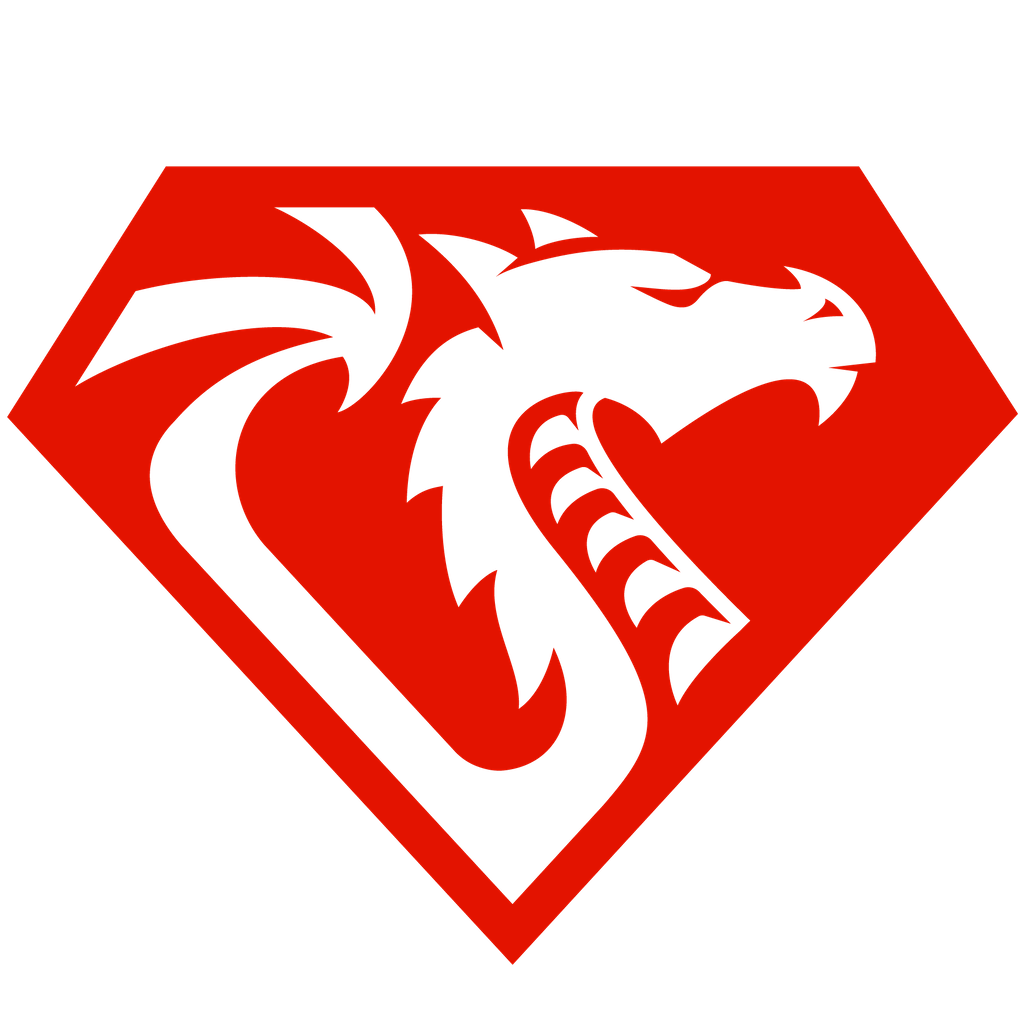
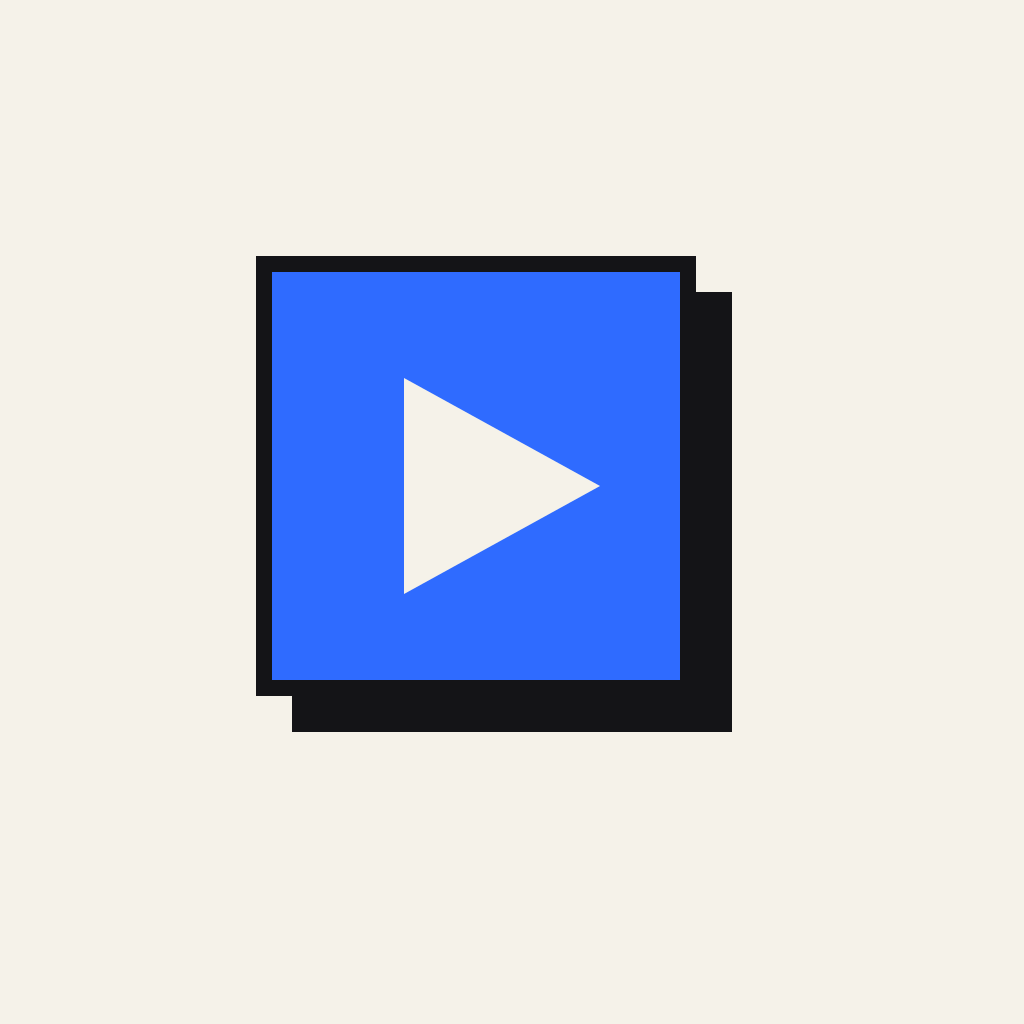
Re-skin the game loading splash to match the in-game poster (#63)
* Re-skin DragonRuby loader splash to match the in-game poster

Replace the red DragonRuby dragon icon with the poster's blue play-button
mark, and re-brand the loader splash chrome (paper bg, site fonts, poster
copy) via overrides in show.html.erb so the boot reads as one video player.

* Move splash re-skin styles into a stylesheet

Extract the inline <style> from frame.html.erb into app/assets/stylesheets/
game_splash.css, linked from the game_frame layout. Bare url() font filenames
let Propshaft digest them (no ERB asset_path needed); frame.html.erb keeps only
the small script that rewrites the loader's two text lines.

* Move splash text rewrite into a Stimulus controller

Replace the inline <script> in frame.html.erb with a game-splash Stimulus
controller (anchored on the iframe body) that rewrites the loader's two splash
text lines once div#clicktoplaydiv appears. Boot a minimal Stimulus app via a
page-scoped importmap (absolute digested asset URLs, so the <base href> leaves
them alone), mirroring how the parent page registers its controllers.

---------

diff --git a/app/assets/stylesheets/game_splash.css b/app/assets/stylesheets/game_splash.css
@@ -1,0 +1,41 @@
+/* Re-skin the DragonRuby HTML5 loader splash to match the in-game poster.
+ *
+ * The vendored loader (regenerated each build) injects div#clicktoplaydiv with the
+ * metadata/icon.png logo + two <p> (title, "Click or tap…"), all inline-styled. We
+ * can't durably edit that JS, so we override its inline styles here (!important beats
+ * inline) and rewrite the two text lines in frame.html.erb once they appear.
+ *
+ * Loaded only inside the game <iframe> (layouts/game_frame.html.erb), which omits the
+ * site CSS — so re-declare the two faces here. Bare url() filenames so Propshaft
+ * digests them (the fonts share the asset-load-path root). Colors mirror constants.rb
+ * (PAPER #F5F2E9 / INK #141417 / MUTED #5B5750; Archivo Black + Space Mono). */
+
+@font-face {
+  font-family: "Archivo Black";
+  font-style: normal;
+  font-weight: 400;
+  font-display: swap;
+  src: url("archivo-black-400.woff2") format("woff2");
+}
+@font-face {
+  font-family: "Space Mono";
+  font-style: normal;
+  font-weight: 400;
+  font-display: swap;
+  src: url("space-mono-400.woff2") format("woff2");
+}
+
+#clicktoplaydiv { background-color: #F5F2E9 !important; border: 3px solid #141417 !important; }
+#clicktoplaydiv p { background-color: transparent !important; }
+#clicktoplaydiv p:nth-of-type(1) {
+  font-family: "Archivo Black", system-ui, sans-serif !important;
+  text-transform: uppercase;
+  letter-spacing: -0.01em;
+  color: #141417 !important;
+  font-size: 28px !important;
+}
+#clicktoplaydiv p:nth-of-type(2) {
+  font-family: "Space Mono", ui-monospace, monospace !important;
+  color: #5B5750 !important;
+  font-size: 18px !important;
+}

diff --git a/app/javascript/controllers/game_splash_controller.js b/app/javascript/controllers/game_splash_controller.js
@@ -1,0 +1,30 @@
+import { Controller } from "@hotwired/stimulus"
+
+// The DragonRuby HTML5 loader injects its splash (div#clicktoplaydiv: a logo + a
+// title <p> + a "Click or tap…" <p>) into the document body once assets finish
+// downloading. We can't edit that vendored JS, so once the splash appears we rewrite
+// its two text lines to the in-game poster's copy (its look is handled by
+// game_splash.css). Attached to the iframe body; it watches for the splash node,
+// which the loader adds asynchronously after this controller has connected.
+export default class extends Controller {
+  connect() {
+    const existing = document.getElementById("clicktoplaydiv")
+    if (existing) { this.rebrand(existing); return }
+
+    this.observer = new MutationObserver((_records, observer) => {
+      const div = document.getElementById("clicktoplaydiv")
+      if (div) { this.rebrand(div); observer.disconnect() }
+    })
+    this.observer.observe(document.body, { childList: true })
+  }
+
+  disconnect() {
+    this.observer?.disconnect()
+  }
+
+  rebrand(div) {
+    const ps = div.querySelectorAll("p")
+    if (ps[0]) ps[0].textContent = "Authentication 101"
+    if (ps[1]) ps[1].textContent = "click or tap to begin onboarding"
+  }
+}